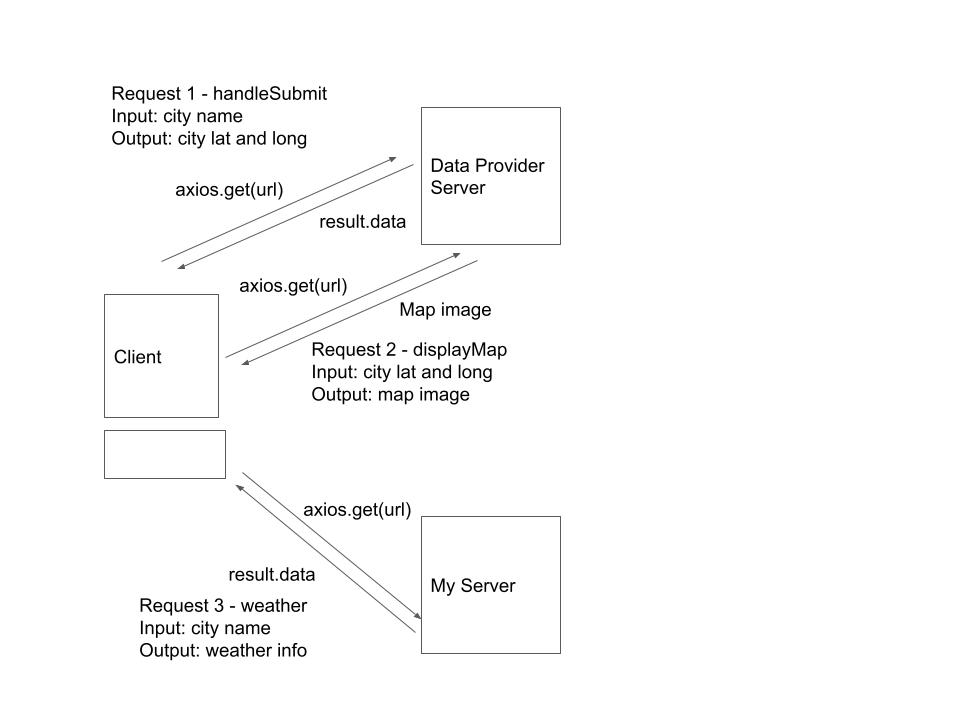
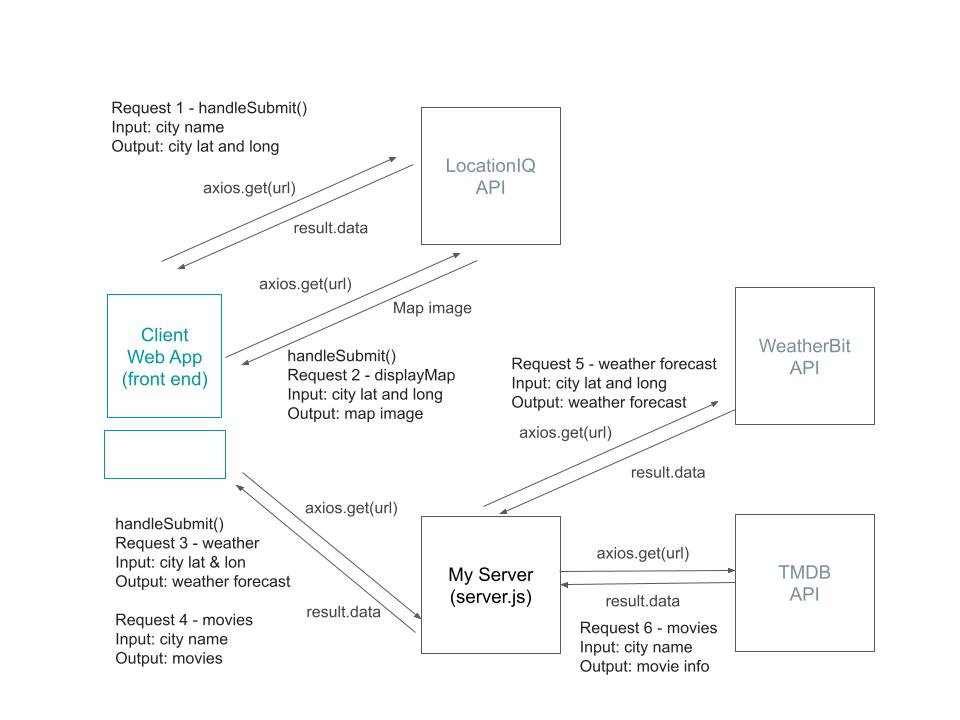
Updates README

diff --git a/README.md b/README.md
@@ -14,7 +14,7 @@ Allows the front-end to make API queries to obtain weather and movie information
 - Then: npm start to run
 
 ## Architecture
-[High level whiteboard](./whiteboard.jpg) *needs update*
+[High level whiteboard](./whiteboard.jpg)
 
 Live server with separate API routes for weather forecast and movie information requests.  Returns a JSON object with requested information.
 
